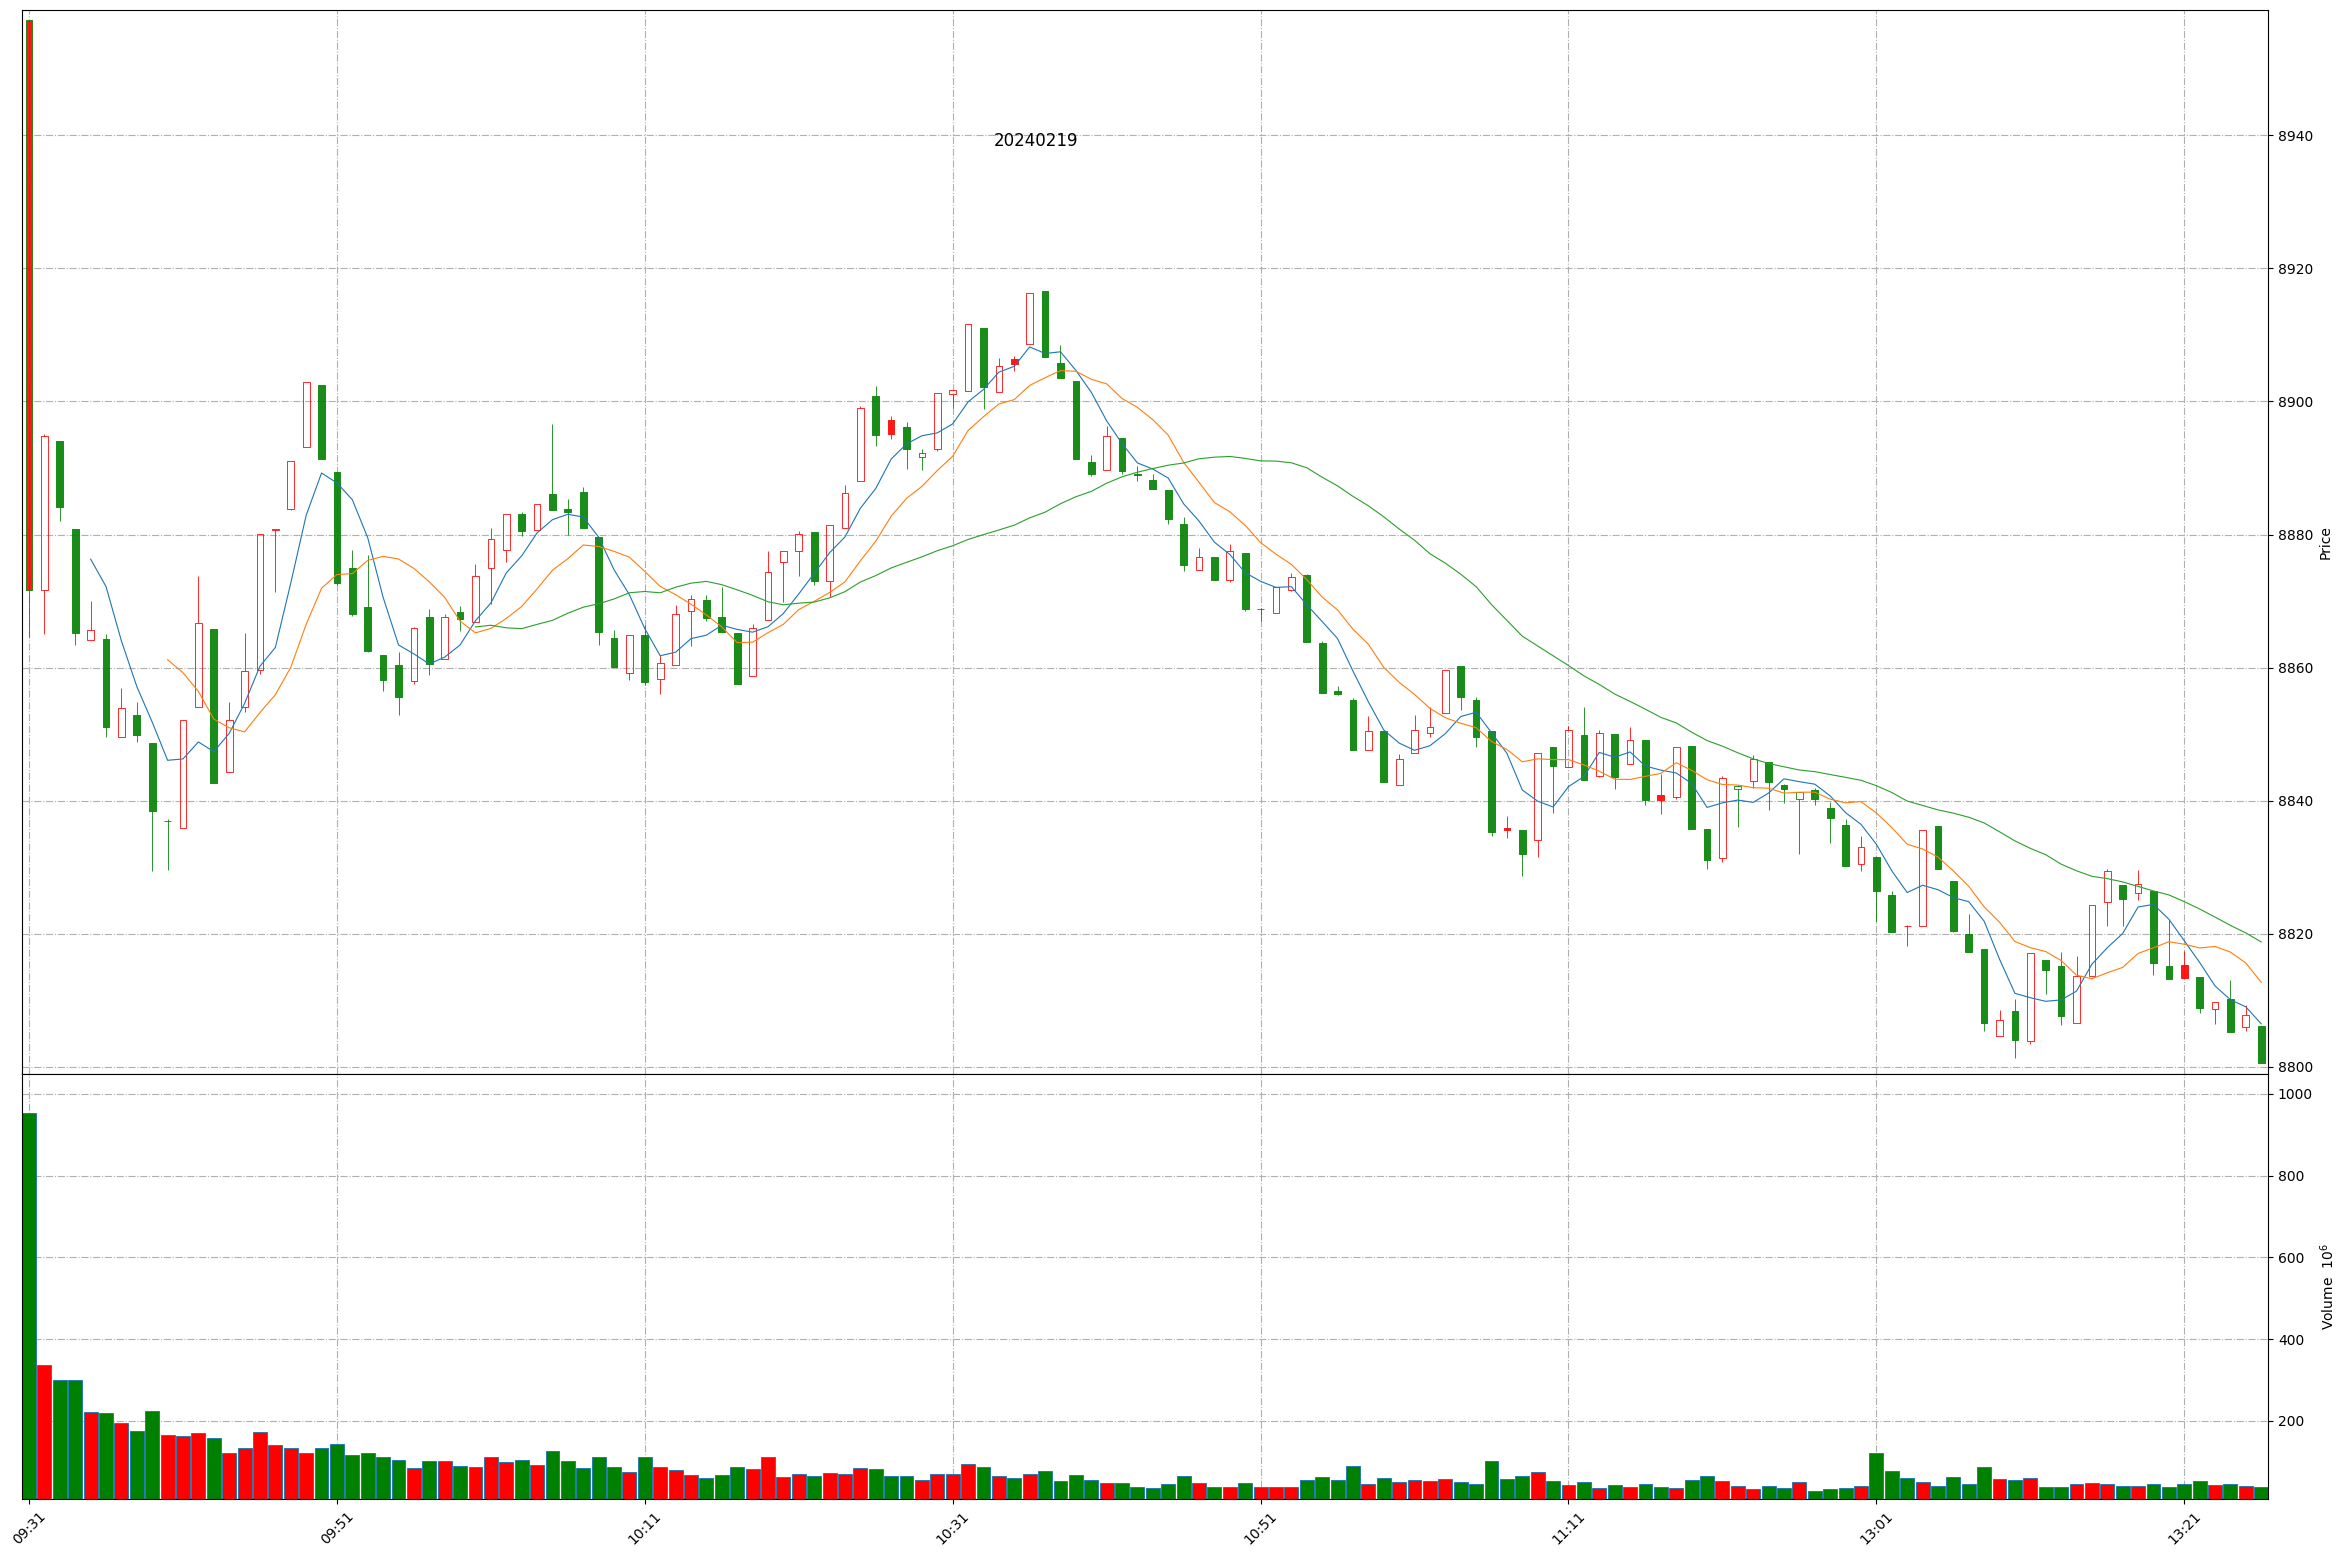
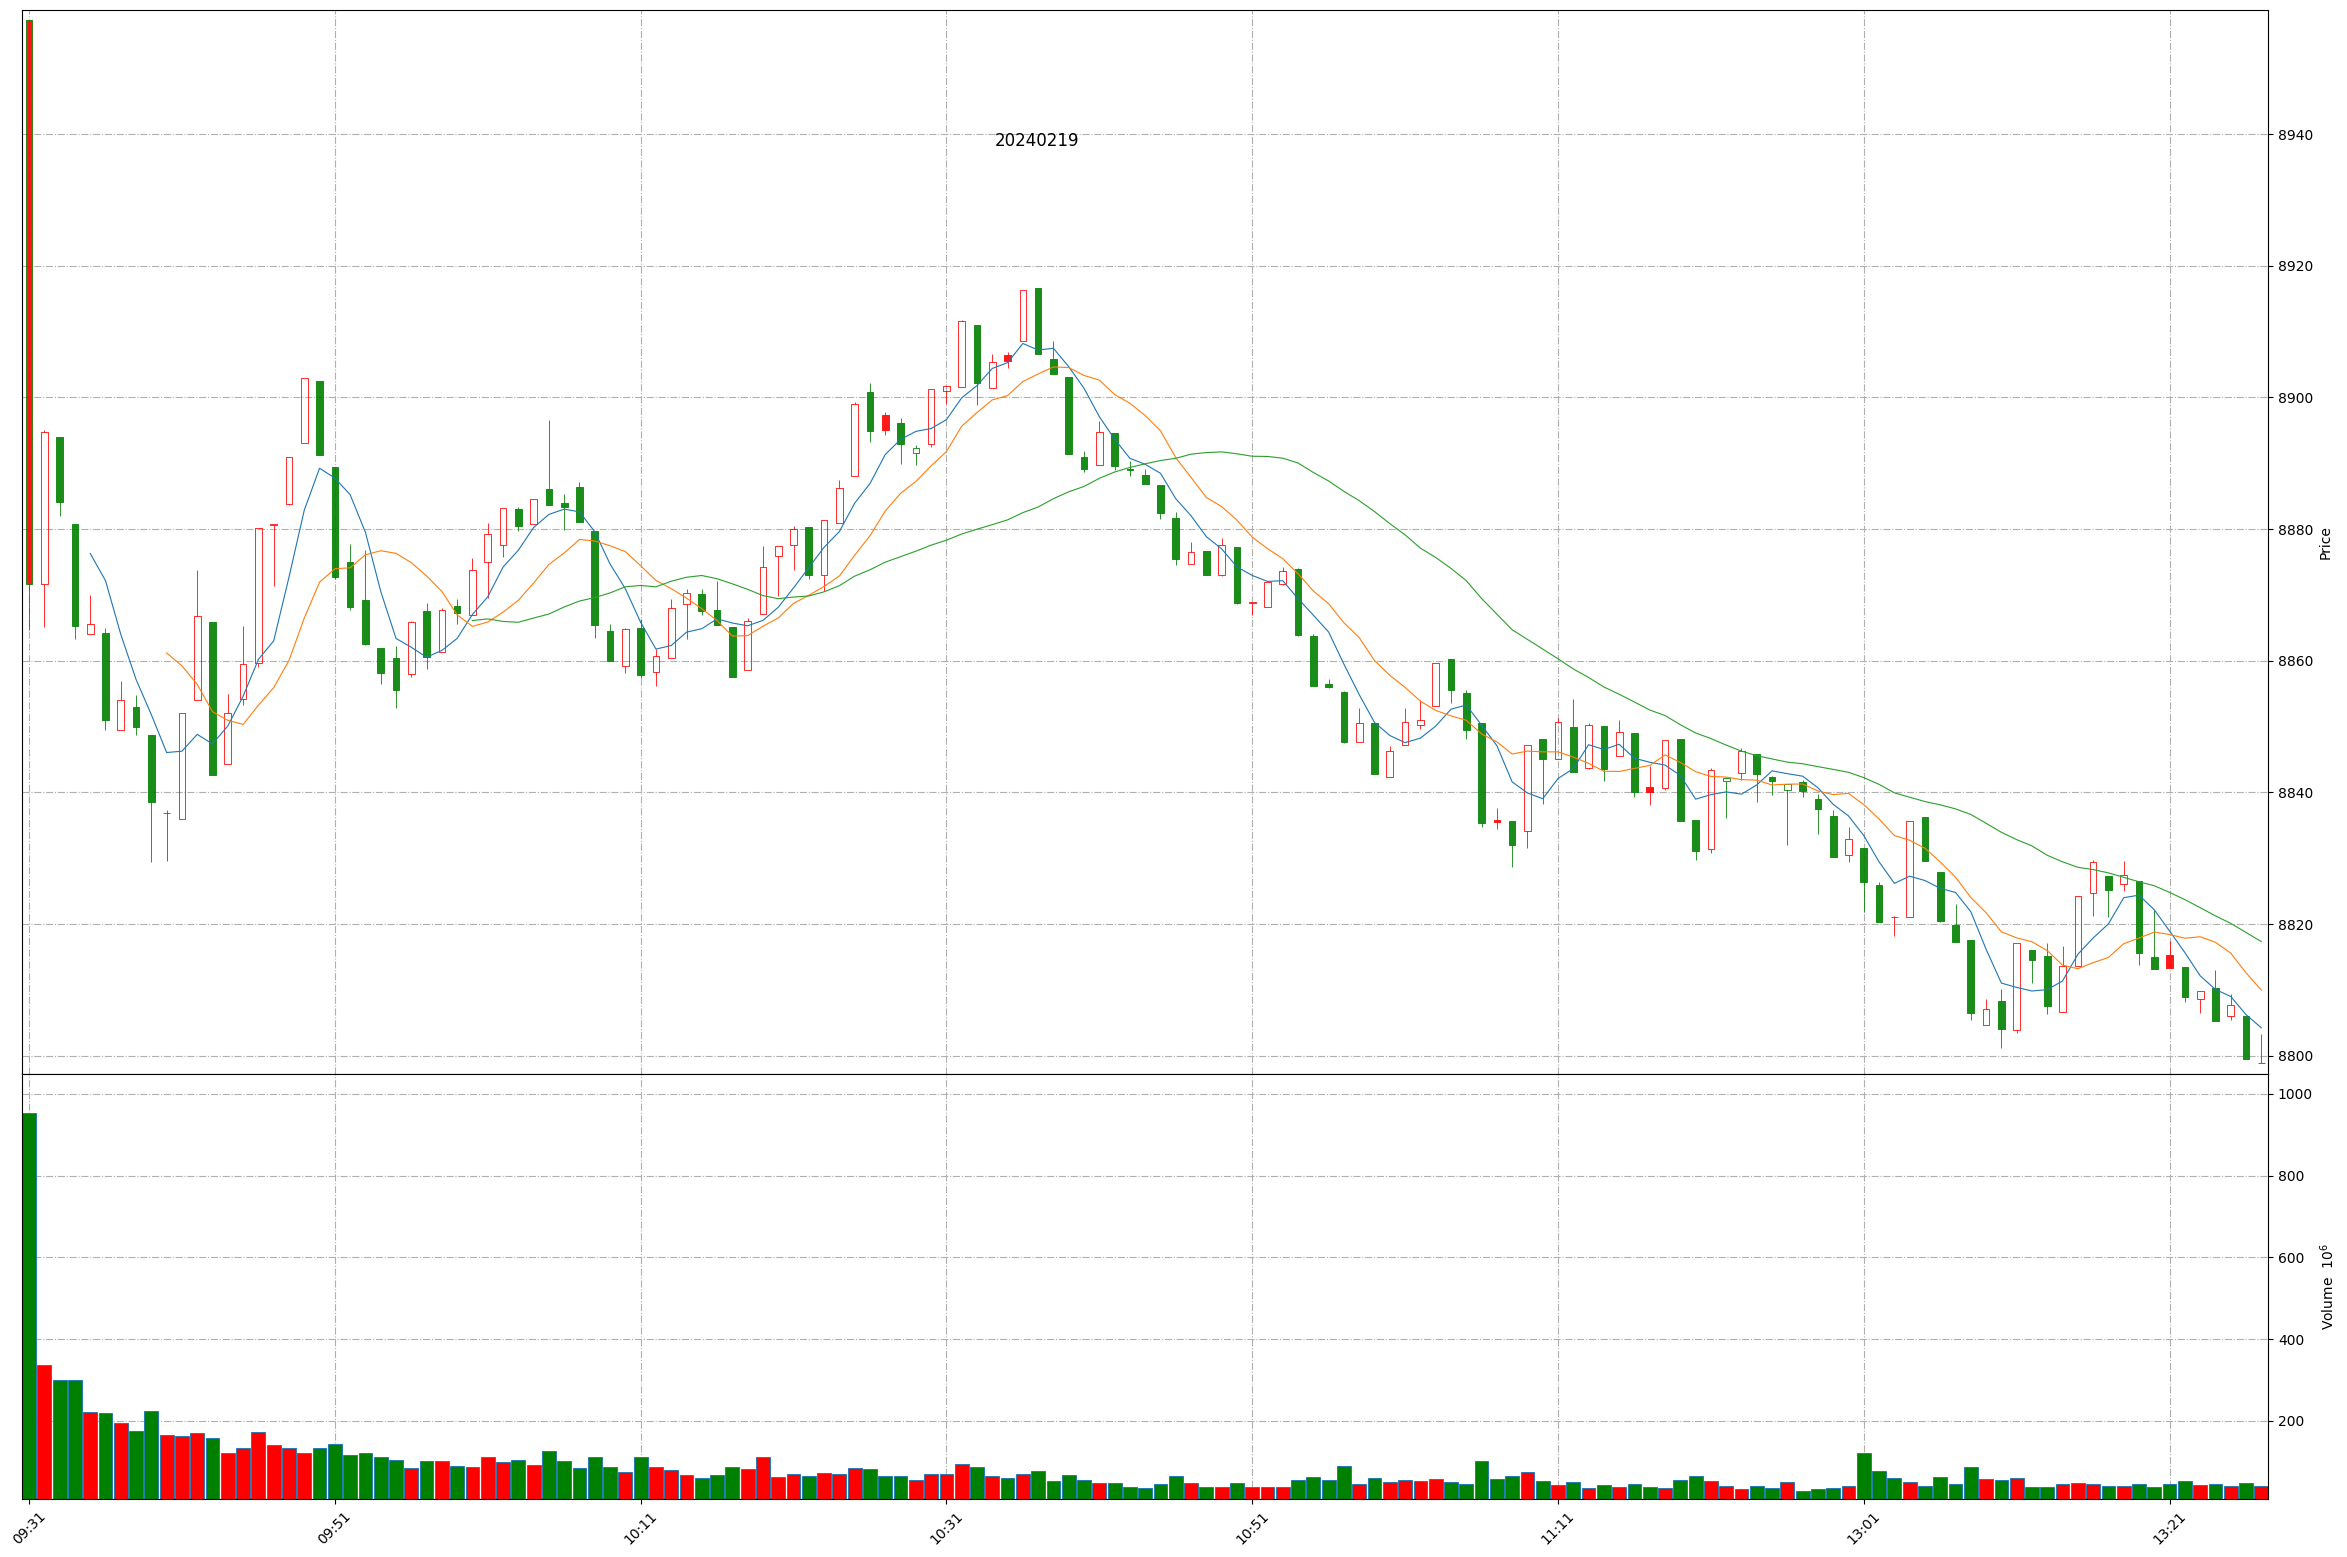
Github action update at 2024-02-19 13:27:05.

diff --git a/README.md b/README.md
@@ -1,11 +1,11 @@
 
 # Daily-A-share-market-quotes 每日 A 股指数（5min 更新）- 20240219
 
-### 上证指数 20240219 13:26
+### 上证指数 20240219 13:27
 ![](./fig/2024/2/20240219-sh000001.png)
 
-### 深证成指 20240219 13:26
+### 深证成指 20240219 13:27
 ![](./fig/2024/2/20240219-sz399001.png)
 
-### 北证50 20240219 13:26
+### 北证50 20240219 13:27
 ![](./fig/2024/2/20240219-bj899050.png)
